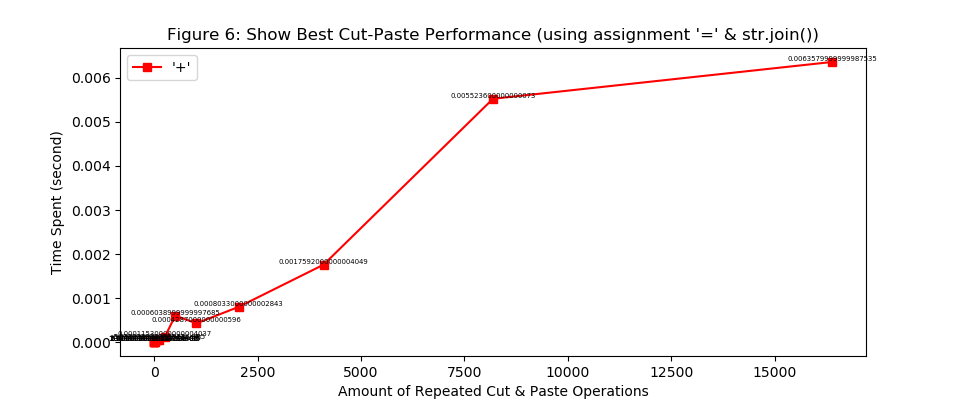
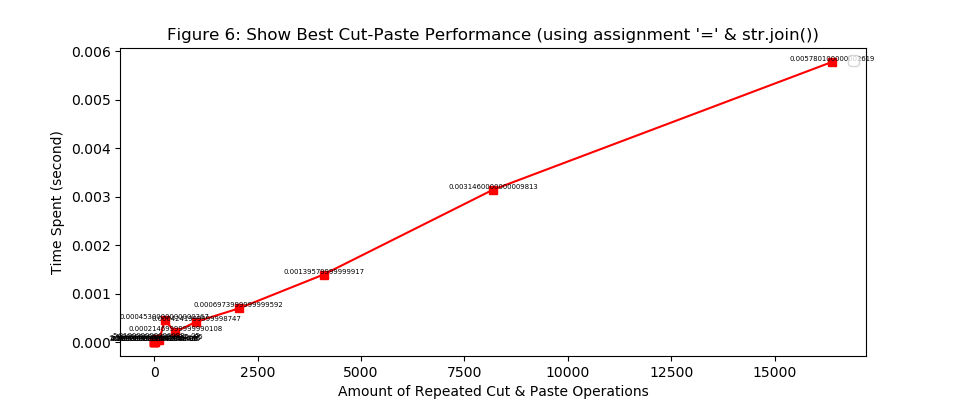
update

diff --git a/tempCodeRunnerFile.py b/tempCodeRunnerFile.py
@@ -1,0 +1,84 @@
+#Figure 1: compare different Cut Operations
+    # plt.figure(figsize=(16, 4))
+    # plt.title("Figure 1: Different Cut Operations Comparison while using '+' as Paste Method")
+    # plt.plot(timeslist, cutList_assignment, 's-', color = 'r', label = "assignment '='") #red
+    # plt.plot(timeslist, cutList_copy, 'o-',  color = 'g', label = "copy.copy()") #green
+    # plt.plot(timeslist, cutList_deepcopy, '+-' , color = 'b', label = "copy.deepcopy()") #blue
+    # plt.plot(timeslist, cutList_pyperclip, 'p-',  color = 'y', label = "Pyperclip") #Yelloe
+    # plt.plot(timeslist, cutList_stringformatting, '*-' , color = 'c', label = "string formatting") #c
+    # plt.xlabel('Amount of Repeated Cut & Paste Operations')
+    # plt.ylabel('Time Spent (second)')    
+    # plt.legend(loc = "best")
+    # plt.show()
+
+    # #Figure 2: compare different Cut Operations (without pyperclip)
+    # plt.figure(figsize=(16, 4))
+    # plt.title("Figure 2: Different Cut Operations Comparison while using '+' as Paste Method (Without Pyperclip)")
+    # plt.plot(timeslist, cutList_assignment, 's-', color = 'r', label = "assignment '='") #red
+    # plt.plot(timeslist, cutList_copy, 'o-',  color = 'g', label = "copy.copy()") #green
+    # plt.plot(timeslist, cutList_deepcopy, '+-' , color = 'b', label = "copy.deepcopy()") #blue
+    # plt.plot(timeslist, cutList_stringformatting, '*-' , color = 'c', label = "string formatting") #c
+    # plt.xlabel('Amount of Repeated Cut & Paste Operations')
+    # plt.ylabel('Time Spent (second)')    
+    # plt.legend(loc = "best")
+    # plt.show()
+
+    # #Figure 3: compare different Cut Operations (without pyperclip or string formatting)
+    # plt.figure(figsize=(14, 4))
+    # plt.title("Figure 3: Different Cut Operations Comparison while using '+' as Paste Method (Without Pyperclip and String Formatting)")
+    # plt.plot(timeslist, cutList_assignment, 's-', color = 'r', label = "assignment '='") #red
+    # plt.plot(timeslist, cutList_copy, 'o-',  color = 'g', label = "copy.copy()") #green
+    # plt.plot(timeslist, cutList_deepcopy, '+-' , color = 'b', label = "copy.deepcopy()") #blue
+    # plt.xlabel('Amount of Repeated Cut & Paste Operations')
+    # plt.ylabel('Time Spent (second)')    
+    # plt.legend(loc = "best")
+    # plt.show()
+
+    # #==========================================================
+    # #Figure 4: compare different Paste Operations
+    # plt.figure(figsize=(16, 4))
+    # plt.title("Figure 4: Different Paste Operations Comparison while using Assignment '=' as Cut Method")
+    # plt.plot(timeslist, pasteList_plus, 's-', color = 'r', label = "'+'") #red
+    # plt.plot(timeslist, pasteList_percent, 'o-',  color = 'g', label = "%") #green
+    # plt.plot(timeslist, pasteList_fstring, '+-' , color = 'b', label = "f-string") #blue
+    # plt.plot(timeslist, pasteList_join, 'p-',  color = 'y', label = "str.join()") #Yelloe
+    # plt.plot(timeslist, pasteList_format, '*-' , color = 'c', label = "str.format()") #c
+    # plt.xlabel('Amount of Repeated Cut & Paste Operations')
+    # plt.ylabel('Time Spent (second)')    
+    # plt.legend(loc = "best")
+    # plt.show()
+
+    # #Figure 5: compare different Paste Operations (without f-string)
+    # plt.figure(figsize=(16, 4))
+    # plt.title("Figure 5: Different Paste Operations Comparison while using Assignment '=' as Cut Method (without f-string)")
+    # plt.plot(timeslist, pasteList_plus, 's-', color = 'r', label = "'+'") #red
+    # plt.plot(timeslist, pasteList_percent, 'o-',  color = 'g', label = "%") #green
+    # plt.plot(timeslist, pasteList_join, 'p-',  color = 'y', label = "str.join()") #Yelloe
+    # plt.plot(timeslist, pasteList_format, '*-' , color = 'c', label = "str.format()") #c
+    # plt.xlabel('Amount of Repeated Cut & Paste Operations')
+    # plt.ylabel('Time Spent (second)')    
+    # plt.legend(loc = "best")
+    # plt.show()
+
+    # #=======================
+    # #Figure 6: show best cut-paste performance: assignment '=' & str.join()
+    # plt.figure(figsize=(16, 4))
+    # plt.title("Figure 6: Show Best Cut-Paste Performance (using assignment '=' & str.join())")
+    # plt.plot(timeslist, pasteList_join,'s-', color = 'r') #red
+    # plt.xlabel('Amount of Repeated Cut & Paste Operations')
+    # plt.ylabel('Time Spent (second)')    
+    # for a, b in zip(timeslist, pasteList_join):
+    #     plt.text(a, b, b, ha='center', va='bottom', fontsize=5)
+    # plt.legend(loc = "best")
+    # plt.show()
+
+    # #Figure 7: show best copy-paste performance: assignment '=' & str.join()
+    # plt.figure(figsize=(16, 4))
+    # plt.title("Figure 7: Show Best Copy-Paste Performance (using assignment '=' & str.join())")
+    # plt.plot(timeslist, bestCopyList,'s-', color = 'r') #red
+    # plt.xlabel('Amount of Repeated Copy & Paste Operations')
+    # plt.ylabel('Time Spent (second)')    
+    # for a, b in zip(timeslist, bestCopyList):
+    #     plt.text(a, b, b, ha='center', va='bottom', fontsize=5)
+    # plt.legend(loc = "best")
+    # plt.show()

diff --git a/editor.py b/editor.py
@@ -203,7 +203,7 @@ for n in range({}):
         self.editor_cut_paste = self.editor_cut_paste.format(N)
         self.editor_cut_paste_m1 = self.editor_cut_paste_m1.format(N)
         self.editor_cut_paste_m2 = self.editor_cut_paste_m2.format(N)
-        self.editor_cut_paste_m3 = self.editor_cut_paste_m3.format(N)
+        self.editor_cut_paste_m3 = self.editor_cut_paste_m3.format(N) #takes the most time
         self.editor_cut_paste_m4 = self.editor_cut_paste_m4.format(N)
         self.editor_cut_paste_m5 = self.editor_cut_paste_m5.format(N)
         self.editor_cut_paste_m6 = self.editor_cut_paste_m6.format(N)
@@ -272,7 +272,7 @@ for n in range({}):
             
 
 if __name__ == "__main__":
-    for i in range(15): # num of operations loop thru 
+    for i in range(15): # num of operations loop thru 2^1 to 2^14
         b = EditorBenchmarker(["hello friends"], 2**i)
         timeslist.append(2**i)
         b.benchmark()
@@ -343,7 +343,7 @@ if __name__ == "__main__":
     #Figure 6: show best cut-paste performance: assignment '=' & str.join()
     plt.figure(figsize=(16, 4))
     plt.title("Figure 6: Show Best Cut-Paste Performance (using assignment '=' & str.join())")
-    plt.plot(timeslist, pasteList_join,'s-', color = 'r', label = "'+'") #red
+    plt.plot(timeslist, pasteList_join,'s-', color = 'r') #red
     plt.xlabel('Amount of Repeated Cut & Paste Operations')
     plt.ylabel('Time Spent (second)')    
     for a, b in zip(timeslist, pasteList_join):
@@ -354,10 +354,14 @@ if __name__ == "__main__":
     #Figure 7: show best copy-paste performance: assignment '=' & str.join()
     plt.figure(figsize=(16, 4))
     plt.title("Figure 7: Show Best Copy-Paste Performance (using assignment '=' & str.join())")
-    plt.plot(timeslist, bestCopyList,'s-', color = 'r', label = "'+'") #red
+    plt.plot(timeslist, bestCopyList,'s-', color = 'r') #red
     plt.xlabel('Amount of Repeated Copy & Paste Operations')
     plt.ylabel('Time Spent (second)')    
     for a, b in zip(timeslist, bestCopyList):
         plt.text(a, b, b, ha='center', va='bottom', fontsize=5)
     plt.legend(loc = "best")
     plt.show()
+
+    # print("when we got the best combination, do some testing: ") # [m3] & [m6] should be commented out for this test
+    # b = EditorBenchmarker(["hello friends"], 100000)
+    # b.benchmark()

diff --git a/README.md b/README.md
@@ -101,7 +101,7 @@ The number of repeated operations is looped through 2^0 = 1, 2^1 = 2, 2^2 = 4, .
     Figure 1: 
     ![image](https://github.com/justdunno/PicsForMyReadmes/blob/master/Figure_1.png) 
 
-    According to the Figure 1 above, the pyperclip method clearly cost the much more time than other methods because it access the computer's clipboard each time for putting text into it and retrieving text from it. Additionally, if we use pyperclip method for too many times, it would prevent users from using clipboard features correctly for doing other things since the clipboard is constantly occupied by this cut/paste method. 
+    According to the Figure 1 above, the pyperclip method clearly cost the much more time than other methods because it access the computer's clipboard each time for putting text into it and retrieving text from it. Additionally, if we use pyperclip method for too many times, it would prevent users from using clipboard features correctly for doing other things since the clipboard is constantly occupied by this cut/paste method. However, if we only need to do a small amount (1-10) of repeated cut-paste or copy-paste operations, using clipboard (pyperclip method) can be faster than using other methods.
 
     Figure 2:
     ![image](https://github.com/justdunno/PicsForMyReadmes/blob/master/Figure_2.png) 
@@ -111,7 +111,7 @@ The number of repeated operations is looped through 2^0 = 1, 2^1 = 2, 2^2 = 4, .
     Figure 3: 
     ![image](https://github.com/justdunno/PicsForMyReadmes/blob/master/Figure_3.png)
 
-    According to the Figure 3 above, when there are only Assignment '=', copy.copy(), copy.deepcopy() methods left, we can clearly see that generally, when the repeat time goes up, Assignment method has the best performance among them all.
+    According to the Figure 3 above, when there are only Assignment '=', copy.copy(), copy.deepcopy() methods left, we can clearly see that generally, when the repeat time goes up, Assignment method has the best performance among them all. Note: Sometimes, copy.copy() can get better performance than using Assignment; it may because both of them are shallow copy method. The difference usually would not be larger than 0.001s when the repeated time is 16,384. 
 
 
 ****
@@ -135,7 +135,7 @@ The number of repeated operations is looped through 2^0 = 1, 2^1 = 2, 2^2 = 4, .
     Figure 5:
     ![image](https://github.com/justdunno/PicsForMyReadmes/blob/master/Figure_5.png) 
 
-    According to the Figure 5 above, the paste method str.join() has the best performance among all the paste (string concatenation) methods.
+    According to the Figure 5 above, the paste method str.join() has the best performance among all the paste (string concatenation) methods. Note: sometimes, '+' operator can defeat str.join()'s performance. However, the time spent difference between str.join() and '+' method would not get larger than 0.0001s.
 
 ****
 - To sum up, the cut/copy method *assignment '='* and the paste method *str.join()* have the best performance. So I tried to get the time spent data of this best combination:
@@ -143,13 +143,16 @@ The number of repeated operations is looped through 2^0 = 1, 2^1 = 2, 2^2 = 4, .
     Figure 6:
     ![image](https://github.com/justdunno/PicsForMyReadmes/blob/master/Figure_6.png) 
 
-    According to the Figure 6, the *16,384 (2^15)* repeated cut-paste operations can only take about **0.0064** seconds. Approximately, this method improves the cut-paste performance by around *7.2%* compared to the original cut-paste method (takes average 0.0069 in average)
+    According to the Figure 6, the *16,384 (2^15)* repeated cut-paste operations can only take about **0.0064** seconds. Approximately, this method improves the cut-paste performance by around *7.2%* compared to the original cut-paste method (takes average 0.0069 in average). 
+
+    When I commented out the pyperclip method and tried to run more times. I got about 0.05 seconds run-time for 100,000 repeated cut-pated operations using assignment '=' and str.join().
 
     Figure 7:
     ![image](https://github.com/justdunno/PicsForMyReadmes/blob/master/Figure_7.png) 
 
-    According to the Figure 7, the *16,384 (2^15)*  repeated copy-paste operations can only take about **0.0082** seconds. Approximately, this method improves the cut-paste performance by around *20.8%* compared to the original copy-paste method (takes around 0.00997 in average).
+    According to the Figure 7, the *16,384 (2^15)*  repeated copy-paste operations can only take about **0.0082** seconds. Approximately, this method improves the cut-paste performance by around *20.8%* compared to the original copy-paste method (takes around 0.00997 in average). 
 
+    When I commented out the pyperclip method and tried to run more times. I got about 0.13 seconds run-time for 100,000 repeated cut-pated operations using assignment '=' and str.join().
 
 ===========================================================================
 ## d. Any extensions you have added or would like to add if you had more time.
